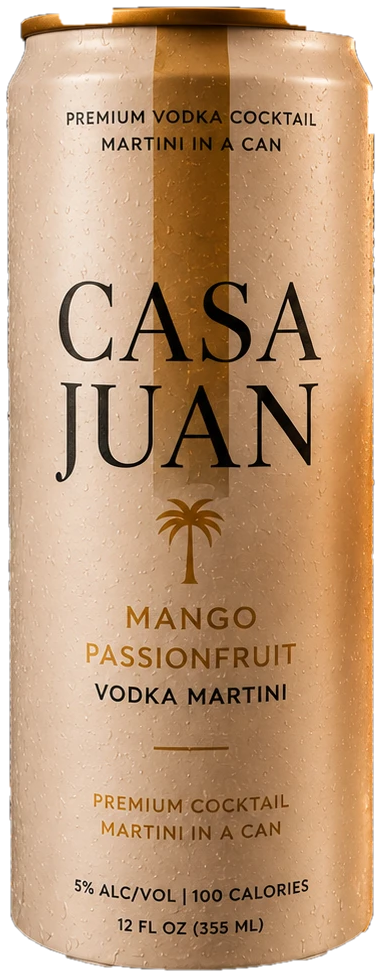
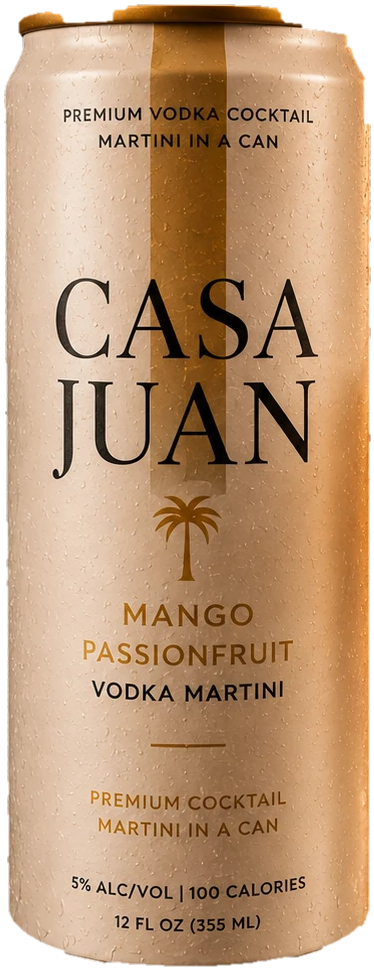
Tighten can cutout mask to remove edge halo
The previous GrabCut mask left a soft warm halo bleeding off the
right edge (leftover bokeh from the original photo's background),
which read as an uneven/stretched silhouette. Re-run segmentation
with a light erosion + hard threshold pass to get a crisp cylinder
edge while preserving the top rim detail.

diff --git a/public/index.html b/public/index.html
@@ -39,7 +39,7 @@
       <div class="hero__can">
         <picture>
           <source srcset="assets/can-mockup.webp" type="image/webp">
-          <img src="assets/can-mockup.png" alt="Casa Juan Mango Passion Fruit Vodka Cocktail can" width="380" height="976">
+          <img src="assets/can-mockup.png" alt="Casa Juan Mango Passion Fruit Vodka Cocktail can" width="374" height="970">
         </picture>
       </div>
       <p class="hero__flavor">Mango Passion Fruit Vodka Cocktail</p>
